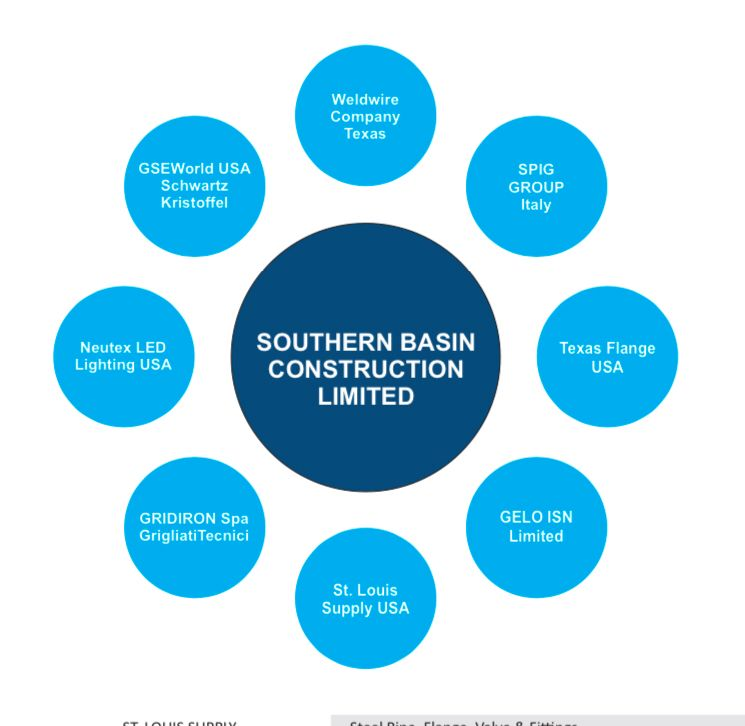
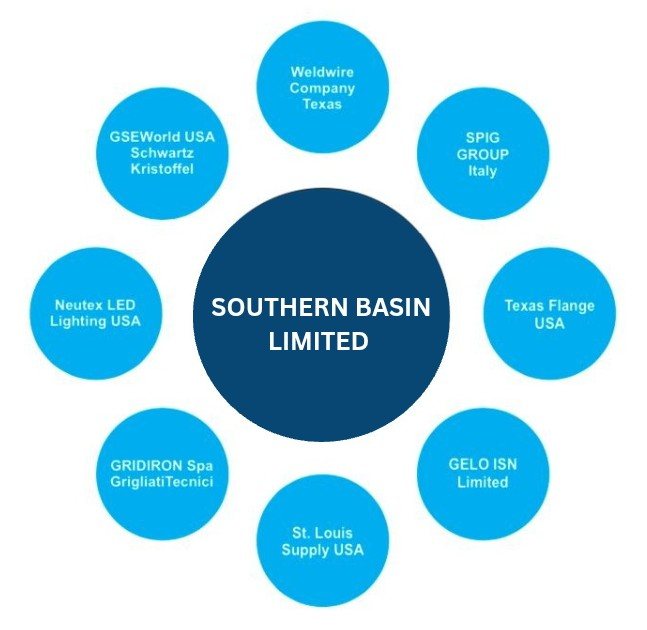
about image

diff --git a/frontend/src/pages/About.tsx b/frontend/src/pages/About.tsx
@@ -71,7 +71,7 @@ const About = () => {
               <img 
                 src="/uploads/about.jpg"
                 alt="About Southern Basin"
-                className="w-full h-96 object-cover shadow-2xl"
+                className="w-full h-full object-cover shadow-2xl"
               />
             </div>
           </div>